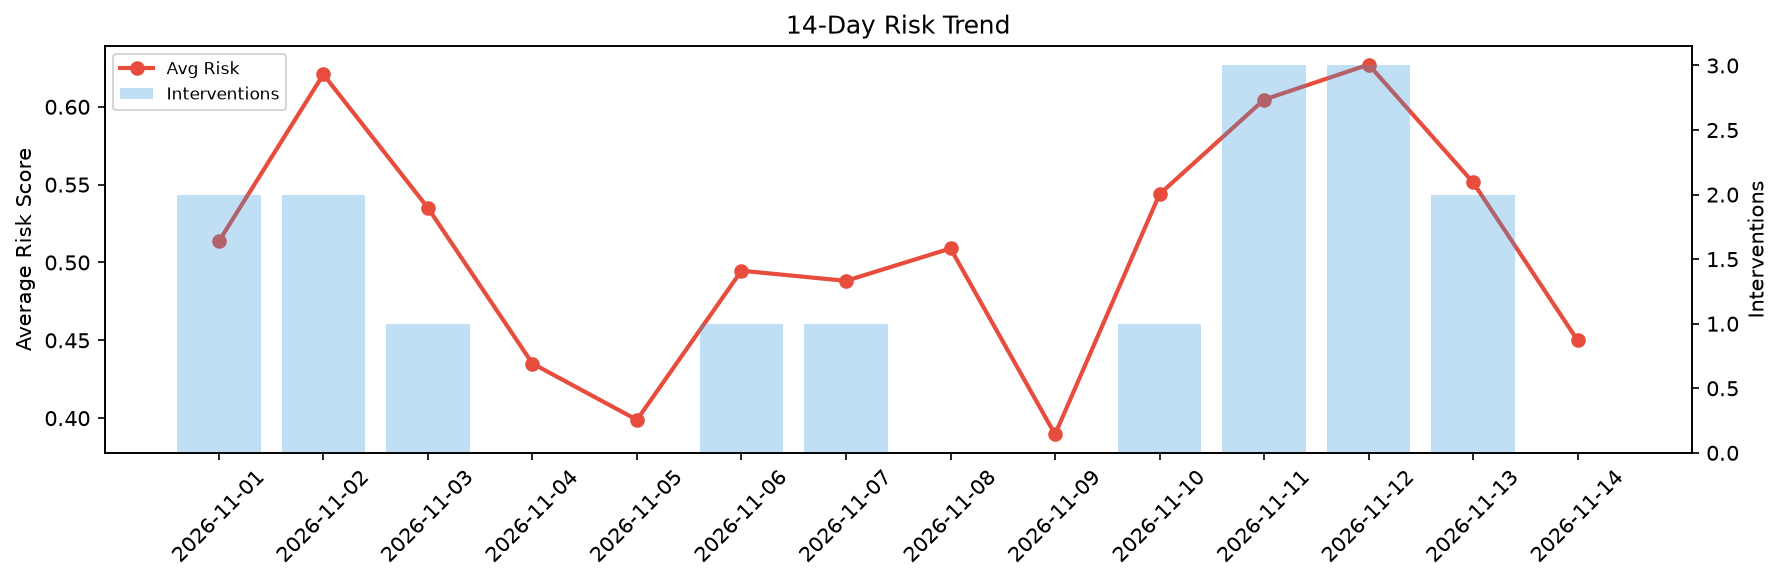
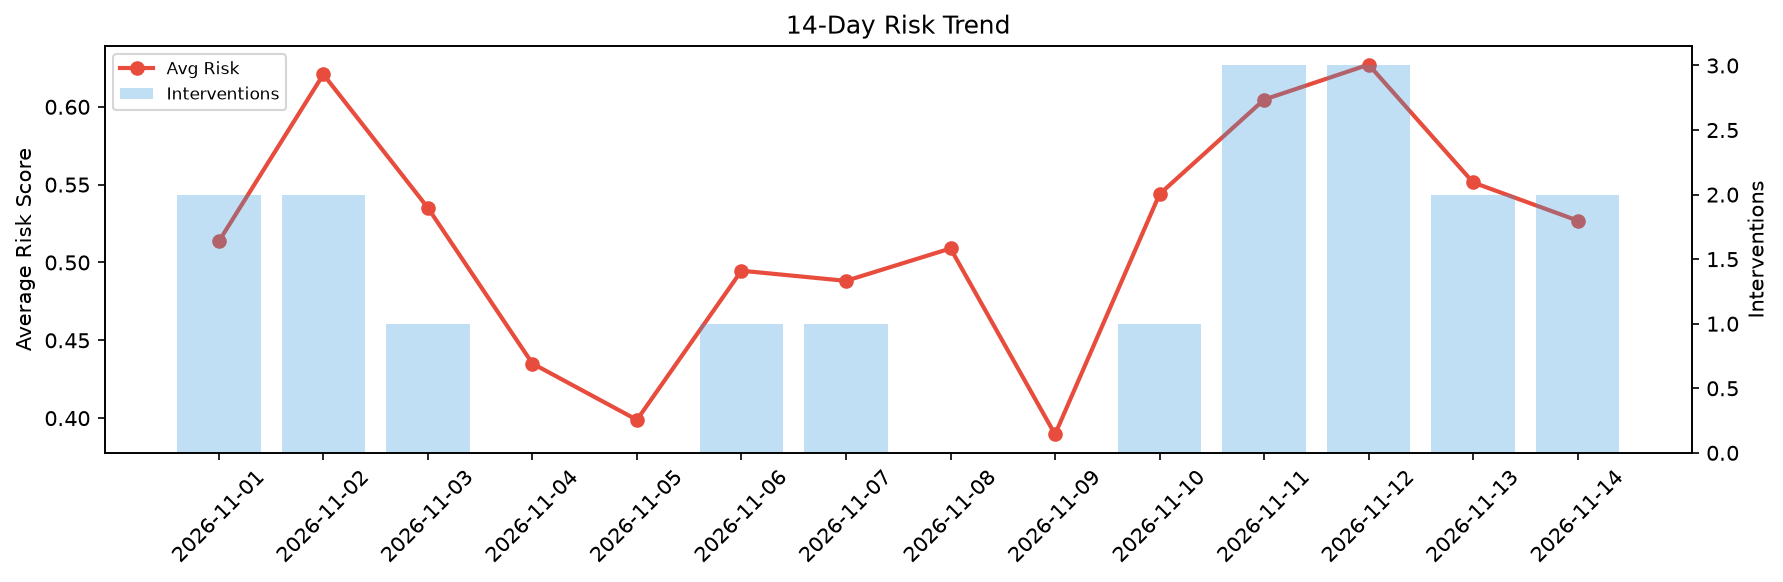
agent-improvement: daily cycle 2026-11-14T23:53

Changed region(s): [[0.8329, 0.3093, 0.9254, 0.8041]]

diff --git a/logs/2026-11-14.md b/logs/2026-11-14.md
@@ -1,6 +1,6 @@
 # Agent Improvement Report — 2026-11-14
 
-**Cycle ID:** `c2ac2369` | **Avg Risk:** 0.4499 | **Interventions:** 0/4
+**Cycle ID:** `9730d935` | **Avg Risk:** 0.5269 | **Interventions:** 2/4
 
 ![Dashboard](2026-11-14_dashboard.png)
 
@@ -10,18 +10,18 @@
 
 | Domain | Risk Score | Decision | Alerts |
 |--------|-----------|----------|--------|
-| code_review | 0.3678 | monitor | none |
-| incident_response | 0.4175 | monitor | none |
-| data_pipeline | 0.5946 | monitor | freshness |
-| deployment | 0.4195 | monitor | none |
+| code_review | 0.4704 | monitor | none |
+| incident_response | 0.3289 | monitor | none |
+| data_pipeline | 0.6683 | intervene | volume_anomaly |
+| deployment | 0.6398 | intervene | rollback_rate |
 
 ## Delta vs Yesterday
 
 | Domain | Today | Yesterday | Change |
 |--------|-------|-----------|--------|
-| code_review | 0.3678 | 0.4015 | 📉 -8.4% |
-| incident_response | 0.4175 | 0.6137 | 📉 -32.0% |
-| data_pipeline | 0.5946 | 0.6932 | 📉 -14.2% |
-| deployment | 0.4195 | 0.4972 | 📉 -15.6% |
+| code_review | 0.4704 | 0.4015 | 📈 17.2% |
+| incident_response | 0.3289 | 0.6137 | 📉 -46.4% |
+| data_pipeline | 0.6683 | 0.6932 | 📉 -3.6% |
+| deployment | 0.6398 | 0.4972 | 📈 28.7% |
 
 **Refinement:** `{'adjustment': 'tighten_thresholds', 'trend': 'degrading', 'window': 4}`
